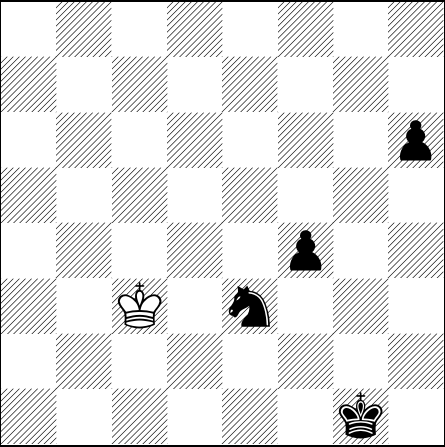
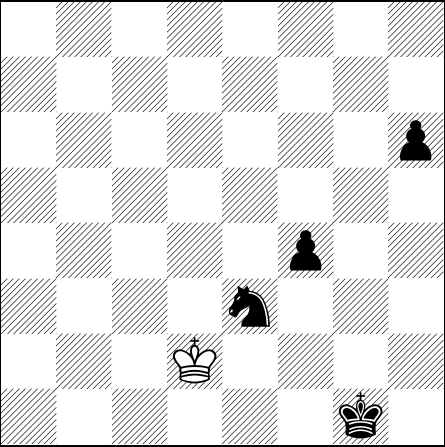
[automated] Regenerate text/pdf for chessboard

Changed region(s): [[0.3798, 0.7562, 0.4966, 0.8725], [0.2629, 0.6398, 0.3798, 0.7562]]

diff --git a/default_filepath.tex b/default_filepath.tex
@@ -13,6 +13,6 @@
 \normalsize%
 \setchessboard{showmover=false}%
 \newgame%
-\fenboard{8/8/7p/8/5p2/2K1n3/8/6k1 w - - 8 158}%
+\fenboard{8/8/7p/8/5p2/4n3/3K4/6k1 b - - 9 158}%
 \chessboard%
 \end{document}
